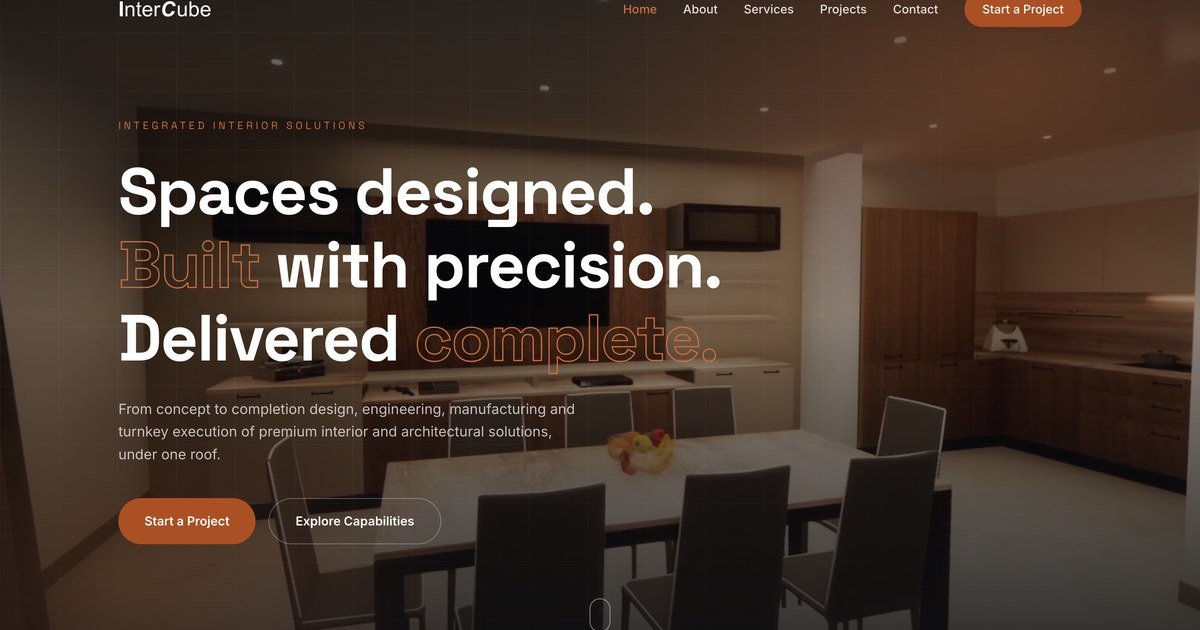
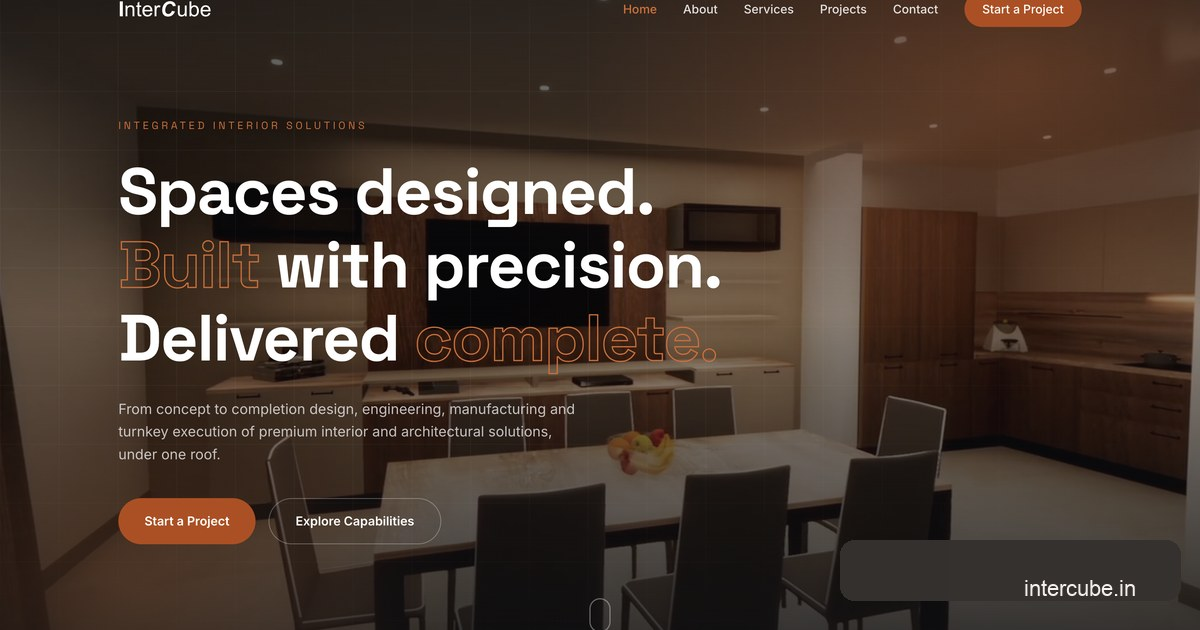
Normalize domain to intercube.in (remove www) across meta, JSON-LD, sitemap, robots, contact link, and OG image text

Changed region(s): [[0.6783, 0.8444, 0.8017, 0.9651], [0.8633, 0.9048, 0.9558, 0.9651]]

diff --git a/index.html b/index.html
@@ -15,8 +15,8 @@
   <meta name="robots" content="index, follow, max-image-preview:large, max-snippet:-1, max-video-preview:-1">
   <meta name="googlebot" content="index, follow">
   <meta name="theme-color" content="#8E402A">
-  <link rel="canonical" href="https://www.intercube.in/">
-  <link rel="alternate" href="https://www.intercube.in/" hreflang="en-IN">
+  <link rel="canonical" href="https://intercube.in/">
+  <link rel="alternate" href="https://intercube.in/" hreflang="en-IN">
 
   <!-- Open Graph -->
   <meta property="og:type" content="website">
@@ -25,9 +25,9 @@
   <meta property="og:title" content="InterCube · Integrated Interior Solutions in Bangalore">
   <meta property="og:description"
     content="Design, engineering, in-house manufacturing and turnkey execution of premium interiors — one partner, complete responsibility. Based in Indiranagar, Bangalore.">
-  <meta property="og:url" content="https://www.intercube.in/">
-  <meta property="og:image" content="https://www.intercube.in/images/og-image.jpg">
-  <meta property="og:image:secure_url" content="https://www.intercube.in/images/og-image.jpg">
+  <meta property="og:url" content="https://intercube.in/">
+  <meta property="og:image" content="https://intercube.in/images/og-image.jpg">
+  <meta property="og:image:secure_url" content="https://intercube.in/images/og-image.jpg">
   <meta property="og:image:type" content="image/jpeg">
   <meta property="og:image:width" content="1200">
   <meta property="og:image:height" content="630">
@@ -39,7 +39,7 @@
   <meta name="twitter:title" content="InterCube · Integrated Interior Solutions in Bangalore">
   <meta name="twitter:description"
     content="Design, engineering, in-house manufacturing and turnkey execution of premium interiors — one partner, complete responsibility. Based in Indiranagar, Bangalore.">
-  <meta name="twitter:image" content="https://www.intercube.in/images/og-image.jpg">
+  <meta name="twitter:image" content="https://intercube.in/images/og-image.jpg">
   <meta name="twitter:image:alt" content="InterCube — Interior Design, Manufacturing and Turnkey Execution in Bangalore">
   <meta name="twitter:creator" content="@intercube_in">
 
@@ -65,13 +65,13 @@
     "@graph": [
       {
         "@type": "Organization",
-        "@id": "https://www.intercube.in/#organization",
+        "@id": "https://intercube.in/#organization",
         "name": "InterCube",
         "legalName": "InterCube Interior Solutions",
-        "url": "https://www.intercube.in/",
+        "url": "https://intercube.in/",
         "logo": {
           "@type": "ImageObject",
-          "url": "https://www.intercube.in/images/og-image.jpg",
+          "url": "https://intercube.in/images/og-image.jpg",
           "width": 1200,
           "height": 630
         },
@@ -89,7 +89,7 @@
         },
         "sameAs": [
           "https://in.linkedin.com/company/www.intercube.co.in",
-          "https://www.intercube.in/"
+          "https://intercube.in/"
         ],
         "knowsAbout": [
           "Interior Design",
@@ -105,10 +105,10 @@
       },
       {
         "@type": "LocalBusiness",
-        "@id": "https://www.intercube.in/#localbusiness",
+        "@id": "https://intercube.in/#localbusiness",
         "name": "InterCube Experience Centre",
-        "image": "https://www.intercube.in/images/og-image.jpg",
-        "url": "https://www.intercube.in/contact.html",
+        "image": "https://intercube.in/images/og-image.jpg",
+        "url": "https://intercube.in/contact.html",
         "telephone": "+91-98441-00700",
         "email": "enquiry@intercube.in",
         "priceRange": "$$",
@@ -136,11 +136,11 @@
           "opens": "09:30",
           "closes": "19:00"
         },
-        "parentOrganization": { "@id": "https://www.intercube.in/#organization" }
+        "parentOrganization": { "@id": "https://intercube.in/#organization" }
       },
       {
         "@type": "ProfessionalService",
-        "@id": "https://www.intercube.in/#service",
+        "@id": "https://intercube.in/#service",
         "name": "InterCube Interior Turnkey Solutions",
         "serviceType": [
           "Interior Design",
@@ -153,20 +153,20 @@
           "HVAC",
           "Turnkey Execution"
         ],
-        "provider": { "@id": "https://www.intercube.in/#organization" },
+        "provider": { "@id": "https://intercube.in/#organization" },
         "areaServed": "India",
-        "url": "https://www.intercube.in/services.html"
+        "url": "https://intercube.in/services.html"
       },
       {
         "@type": "WebSite",
-        "@id": "https://www.intercube.in/#website",
+        "@id": "https://intercube.in/#website",
         "name": "InterCube",
-        "url": "https://www.intercube.in/",
+        "url": "https://intercube.in/",
         "inLanguage": "en-IN",
-        "publisher": { "@id": "https://www.intercube.in/#organization" },
+        "publisher": { "@id": "https://intercube.in/#organization" },
         "potentialAction": {
           "@type": "SearchAction",
-          "target": "https://www.intercube.in/?s={search_term_string}",
+          "target": "https://intercube.in/?s={search_term_string}",
           "query-input": "required name=search_term_string"
         }
       }

diff --git a/contact.html b/contact.html
@@ -14,8 +14,8 @@
   <meta name="author" content="InterCube">
   <meta name="robots" content="index, follow, max-image-preview:large, max-snippet:-1, max-video-preview:-1">
   <meta name="theme-color" content="#8E402A">
-  <link rel="canonical" href="https://www.intercube.in/contact.html">
-  <link rel="alternate" href="https://www.intercube.in/contact.html" hreflang="en-IN">
+  <link rel="canonical" href="https://intercube.in/contact.html">
+  <link rel="alternate" href="https://intercube.in/contact.html" hreflang="en-IN">
 
   <!-- Open Graph -->
   <meta property="og:type" content="website">
@@ -24,9 +24,9 @@
   <meta property="og:title" content="Contact InterCube · Start an Interior Project">
   <meta property="og:description"
     content="Visit our Experience Centre in Indiranagar Bangalore or email/call us to start your interior project — design, manufacture, execute.">
-  <meta property="og:url" content="https://www.intercube.in/contact.html">
-  <meta property="og:image" content="https://www.intercube.in/images/og-image.jpg">
-  <meta property="og:image:secure_url" content="https://www.intercube.in/images/og-image.jpg">
+  <meta property="og:url" content="https://intercube.in/contact.html">
+  <meta property="og:image" content="https://intercube.in/images/og-image.jpg">
+  <meta property="og:image:secure_url" content="https://intercube.in/images/og-image.jpg">
   <meta property="og:image:type" content="image/jpeg">
   <meta property="og:image:width" content="1200">
   <meta property="og:image:height" content="630">
@@ -38,7 +38,7 @@
   <meta name="twitter:title" content="Contact InterCube · Start an Interior Project">
   <meta name="twitter:description"
     content="Visit our Experience Centre in Indiranagar Bangalore or email/call us to start your interior project — design, manufacture, execute.">
-  <meta name="twitter:image" content="https://www.intercube.in/images/og-image.jpg">
+  <meta name="twitter:image" content="https://intercube.in/images/og-image.jpg">
   <meta name="twitter:image:alt" content="Contact InterCube — Experience Centre, Indiranagar Bangalore">
   <meta name="twitter:creator" content="@intercube_in">
 
@@ -64,26 +64,26 @@
     "@graph": [
       {
         "@type": "BreadcrumbList",
-        "@id": "https://www.intercube.in/contact.html/#breadcrumb",
+        "@id": "https://intercube.in/contact.html/#breadcrumb",
         "itemListElement": [
-          { "@type": "ListItem", "position": 1, "name": "Home", "item": "https://www.intercube.in/" },
-          { "@type": "ListItem", "position": 2, "name": "Contact", "item": "https://www.intercube.in/contact.html" }
+          { "@type": "ListItem", "position": 1, "name": "Home", "item": "https://intercube.in/" },
+          { "@type": "ListItem", "position": 2, "name": "Contact", "item": "https://intercube.in/contact.html" }
         ]
       },
       {
         "@type": "ContactPage",
-        "@id": "https://www.intercube.in/contact.html/#page",
+        "@id": "https://intercube.in/contact.html/#page",
         "name": "Contact InterCube",
-        "url": "https://www.intercube.in/contact.html",
+        "url": "https://intercube.in/contact.html",
         "description": "Contact InterCube to start your interior project.",
         "inLanguage": "en-IN",
-        "publisher": { "@id": "https://www.intercube.in/#organization" },
+        "publisher": { "@id": "https://intercube.in/#organization" },
         "mainEntity": {
           "@type": "LocalBusiness",
-          "@id": "https://www.intercube.in/#localbusiness",
+          "@id": "https://intercube.in/#localbusiness",
           "name": "InterCube Experience Centre",
-          "image": "https://www.intercube.in/images/og-image.jpg",
-          "url": "https://www.intercube.in/contact.html",
+          "image": "https://intercube.in/images/og-image.jpg",
+          "url": "https://intercube.in/contact.html",
           "telephone": "+91-98441-00700",
           "email": "enquiry@intercube.in",
           "priceRange": "$$",
@@ -110,7 +110,7 @@
         },
         "primaryImageOfPage": {
           "@type": "ImageObject",
-          "url": "https://www.intercube.in/images/og-image.jpg",
+          "url": "https://intercube.in/images/og-image.jpg",
           "width": 1200,
           "height": 630
         }
@@ -176,7 +176,7 @@
         <section class="contact-info-card contact-info-card--online reveal" aria-labelledby="online-title">
           <h2 id="online-title">Explore InterCube</h2>
           <p>See our capabilities, materials and completed spaces online.</p>
-          <a class="contact-info-card__link" href="https://www.intercube.in" target="_blank" rel="noopener">www.intercube.in <span aria-hidden="true">↗</span></a>
+          <a class="contact-info-card__link" href="https://intercube.in" target="_blank" rel="noopener">intercube.in <span aria-hidden="true">↗</span></a>
         </section>
 
         <section class="contact-info-card contact-info-card--social reveal" aria-labelledby="social-title">

diff --git a/about.html b/about.html
@@ -14,8 +14,8 @@
   <meta name="author" content="InterCube">
   <meta name="robots" content="index, follow, max-image-preview:large, max-snippet:-1, max-video-preview:-1">
   <meta name="theme-color" content="#8E402A">
-  <link rel="canonical" href="https://www.intercube.in/about.html">
-  <link rel="alternate" href="https://www.intercube.in/about.html" hreflang="en-IN">
+  <link rel="canonical" href="https://intercube.in/about.html">
+  <link rel="alternate" href="https://intercube.in/about.html" hreflang="en-IN">
 
   <!-- Open Graph -->
   <meta property="og:type" content="website">
@@ -24,9 +24,9 @@
   <meta property="og:title" content="About InterCube · Integrated Interior Solutions in Bangalore">
   <meta property="og:description"
     content="Design, engineering, in-house manufacturing and turnkey execution under one roof. 30,000 sq.ft facility, 25+ European machines, 10+ years delivering premium interiors across India.">
-  <meta property="og:url" content="https://www.intercube.in/about.html">
-  <meta property="og:image" content="https://www.intercube.in/images/og-image.jpg">
-  <meta property="og:image:secure_url" content="https://www.intercube.in/images/og-image.jpg">
+  <meta property="og:url" content="https://intercube.in/about.html">
+  <meta property="og:image" content="https://intercube.in/images/og-image.jpg">
+  <meta property="og:image:secure_url" content="https://intercube.in/images/og-image.jpg">
   <meta property="og:image:type" content="image/jpeg">
   <meta property="og:image:width" content="1200">
   <meta property="og:image:height" content="630">
@@ -38,7 +38,7 @@
   <meta name="twitter:title" content="About InterCube · Integrated Interior Solutions in Bangalore">
   <meta name="twitter:description"
     content="Design, engineering, in-house manufacturing and turnkey execution under one roof. 30,000 sq.ft facility, 25+ European machines, 10+ years delivering premium interiors across India.">
-  <meta name="twitter:image" content="https://www.intercube.in/images/og-image.jpg">
+  <meta name="twitter:image" content="https://intercube.in/images/og-image.jpg">
   <meta name="twitter:image:alt" content="About InterCube — Integrated Interior Design, Manufacturing and Turnkey Execution">
   <meta name="twitter:creator" content="@intercube_in">
 
@@ -64,21 +64,21 @@
     "@graph": [
       {
         "@type": "BreadcrumbList",
-        "@id": "https://www.intercube.in/about.html/#breadcrumb",
+        "@id": "https://intercube.in/about.html/#breadcrumb",
         "itemListElement": [
-          { "@type": "ListItem", "position": 1, "name": "Home", "item": "https://www.intercube.in/" },
-          { "@type": "ListItem", "position": 2, "name": "About", "item": "https://www.intercube.in/about.html" }
+          { "@type": "ListItem", "position": 1, "name": "Home", "item": "https://intercube.in/" },
+          { "@type": "ListItem", "position": 2, "name": "About", "item": "https://intercube.in/about.html" }
         ]
       },
       {
         "@type": "AboutPage",
-        "@id": "https://www.intercube.in/about.html/#page",
+        "@id": "https://intercube.in/about.html/#page",
         "name": "About InterCube",
-        "url": "https://www.intercube.in/about.html",
+        "url": "https://intercube.in/about.html",
         "description": "About InterCube — Bangalore's integrated interior solutions partner with 30,000 sq.ft manufacturing facility and end-to-end design-to-site execution.",
         "inLanguage": "en-IN",
-        "publisher": { "@id": "https://www.intercube.in/#organization" },
-        "mainEntity": { "@id": "https://www.intercube.in/#organization" }
+        "publisher": { "@id": "https://intercube.in/#organization" },
+        "mainEntity": { "@id": "https://intercube.in/#organization" }
       }
     ]
   }

diff --git a/projects.html b/projects.html
@@ -14,8 +14,8 @@
   <meta name="author" content="InterCube">
   <meta name="robots" content="index, follow, max-image-preview:large, max-snippet:-1, max-video-preview:-1">
   <meta name="theme-color" content="#8E402A">
-  <link rel="canonical" href="https://www.intercube.in/projects.html">
-  <link rel="alternate" href="https://www.intercube.in/projects.html" hreflang="en-IN">
+  <link rel="canonical" href="https://intercube.in/projects.html">
+  <link rel="alternate" href="https://intercube.in/projects.html" hreflang="en-IN">
 
   <!-- Open Graph -->
   <meta property="og:type" content="website">
@@ -24,9 +24,9 @@
   <meta property="og:title" content="InterCube Projects · Retail, Offices & Hospitality Interiors">
   <meta property="og:description"
     content="Selected InterCube work across retail, offices and hospitality — designed, manufactured and turnkey-executed in Bangalore and India.">
-  <meta property="og:url" content="https://www.intercube.in/projects.html">
-  <meta property="og:image" content="https://www.intercube.in/images/og-image.jpg">
-  <meta property="og:image:secure_url" content="https://www.intercube.in/images/og-image.jpg">
+  <meta property="og:url" content="https://intercube.in/projects.html">
+  <meta property="og:image" content="https://intercube.in/images/og-image.jpg">
+  <meta property="og:image:secure_url" content="https://intercube.in/images/og-image.jpg">
   <meta property="og:image:type" content="image/jpeg">
   <meta property="og:image:width" content="1200">
   <meta property="og:image:height" content="630">
@@ -38,7 +38,7 @@
   <meta name="twitter:title" content="InterCube Projects · Retail, Offices & Hospitality Interiors">
   <meta name="twitter:description"
     content="Selected InterCube work across retail, offices and hospitality — designed, manufactured and turnkey-executed in Bangalore and India.">
-  <meta name="twitter:image" content="https://www.intercube.in/images/og-image.jpg">
+  <meta name="twitter:image" content="https://intercube.in/images/og-image.jpg">
   <meta name="twitter:image:alt" content="InterCube Projects — Selected Interior Work in Retail, Offices and Hospitality">
   <meta name="twitter:creator" content="@intercube_in">
 
@@ -64,20 +64,20 @@
     "@graph": [
       {
         "@type": "BreadcrumbList",
-        "@id": "https://www.intercube.in/projects.html/#breadcrumb",
+        "@id": "https://intercube.in/projects.html/#breadcrumb",
         "itemListElement": [
-          { "@type": "ListItem", "position": 1, "name": "Home", "item": "https://www.intercube.in/" },
-          { "@type": "ListItem", "position": 2, "name": "Projects", "item": "https://www.intercube.in/projects.html" }
+          { "@type": "ListItem", "position": 1, "name": "Home", "item": "https://intercube.in/" },
+          { "@type": "ListItem", "position": 2, "name": "Projects", "item": "https://intercube.in/projects.html" }
         ]
       },
       {
         "@type": "CollectionPage",
-        "@id": "https://www.intercube.in/projects.html/#page",
+        "@id": "https://intercube.in/projects.html/#page",
         "name": "InterCube Projects — Selected Interior Work",
-        "url": "https://www.intercube.in/projects.html",
+        "url": "https://intercube.in/projects.html",
         "description": "Selected interior projects delivered by InterCube across retail, offices, hospitality, healthcare, residential and experience centres.",
         "inLanguage": "en-IN",
-        "publisher": { "@id": "https://www.intercube.in/#organization" }
+        "publisher": { "@id": "https://intercube.in/#organization" }
       }
     ]
   }

diff --git a/services.html b/services.html
@@ -14,8 +14,8 @@
   <meta name="author" content="InterCube">
   <meta name="robots" content="index, follow, max-image-preview:large, max-snippet:-1, max-video-preview:-1">
   <meta name="theme-color" content="#8E402A">
-  <link rel="canonical" href="https://www.intercube.in/services.html">
-  <link rel="alternate" href="https://www.intercube.in/services.html" hreflang="en-IN">
+  <link rel="canonical" href="https://intercube.in/services.html">
+  <link rel="alternate" href="https://intercube.in/services.html" hreflang="en-IN">
 
   <!-- Open Graph -->
   <meta property="og:type" content="website">
@@ -24,9 +24,9 @@
   <meta property="og:title" content="InterCube Services · Interior Design to Turnkey Execution">
   <meta property="og:description"
     content="Interior Design, Engineering, Wood & Metal Manufacturing, Signage, Digital Printing, MEP, HVAC and turnkey site execution — one integrated partner in Bangalore.">
-  <meta property="og:url" content="https://www.intercube.in/services.html">
-  <meta property="og:image" content="https://www.intercube.in/images/og-image.jpg">
-  <meta property="og:image:secure_url" content="https://www.intercube.in/images/og-image.jpg">
+  <meta property="og:url" content="https://intercube.in/services.html">
+  <meta property="og:image" content="https://intercube.in/images/og-image.jpg">
+  <meta property="og:image:secure_url" content="https://intercube.in/images/og-image.jpg">
   <meta property="og:image:type" content="image/jpeg">
   <meta property="og:image:width" content="1200">
   <meta property="og:image:height" content="630">
@@ -38,7 +38,7 @@
   <meta name="twitter:title" content="InterCube Services · Interior Design to Turnkey Execution">
   <meta name="twitter:description"
     content="Interior Design, Engineering, Wood & Metal Manufacturing, Signage, Digital Printing, MEP, HVAC and turnkey site execution — one integrated partner in Bangalore.">
-  <meta name="twitter:image" content="https://www.intercube.in/images/og-image.jpg">
+  <meta name="twitter:image" content="https://intercube.in/images/og-image.jpg">
   <meta name="twitter:image:alt" content="InterCube Services — Interior Design, Manufacturing, MEP, HVAC and Turnkey Execution">
   <meta name="twitter:creator" content="@intercube_in">
 
@@ -64,17 +64,17 @@
     "@graph": [
       {
         "@type": "BreadcrumbList",
-        "@id": "https://www.intercube.in/services.html/#breadcrumb",
+        "@id": "https://intercube.in/services.html/#breadcrumb",
         "itemListElement": [
-          { "@type": "ListItem", "position": 1, "name": "Home", "item": "https://www.intercube.in/" },
-          { "@type": "ListItem", "position": 2, "name": "Services", "item": "https://www.intercube.in/services.html" }
+          { "@type": "ListItem", "position": 1, "name": "Home", "item": "https://intercube.in/" },
+          { "@type": "ListItem", "position": 2, "name": "Services", "item": "https://intercube.in/services.html" }
         ]
       },
       {
         "@type": "Service",
-        "@id": "https://www.intercube.in/services.html/#service",
+        "@id": "https://intercube.in/services.html/#service",
         "name": "Integrated Interior Solutions",
-        "provider": { "@id": "https://www.intercube.in/#organization" },
+        "provider": { "@id": "https://intercube.in/#organization" },
         "areaServed": "India",
         "hasOfferCatalog": {
           "@type": "OfferCatalog",
